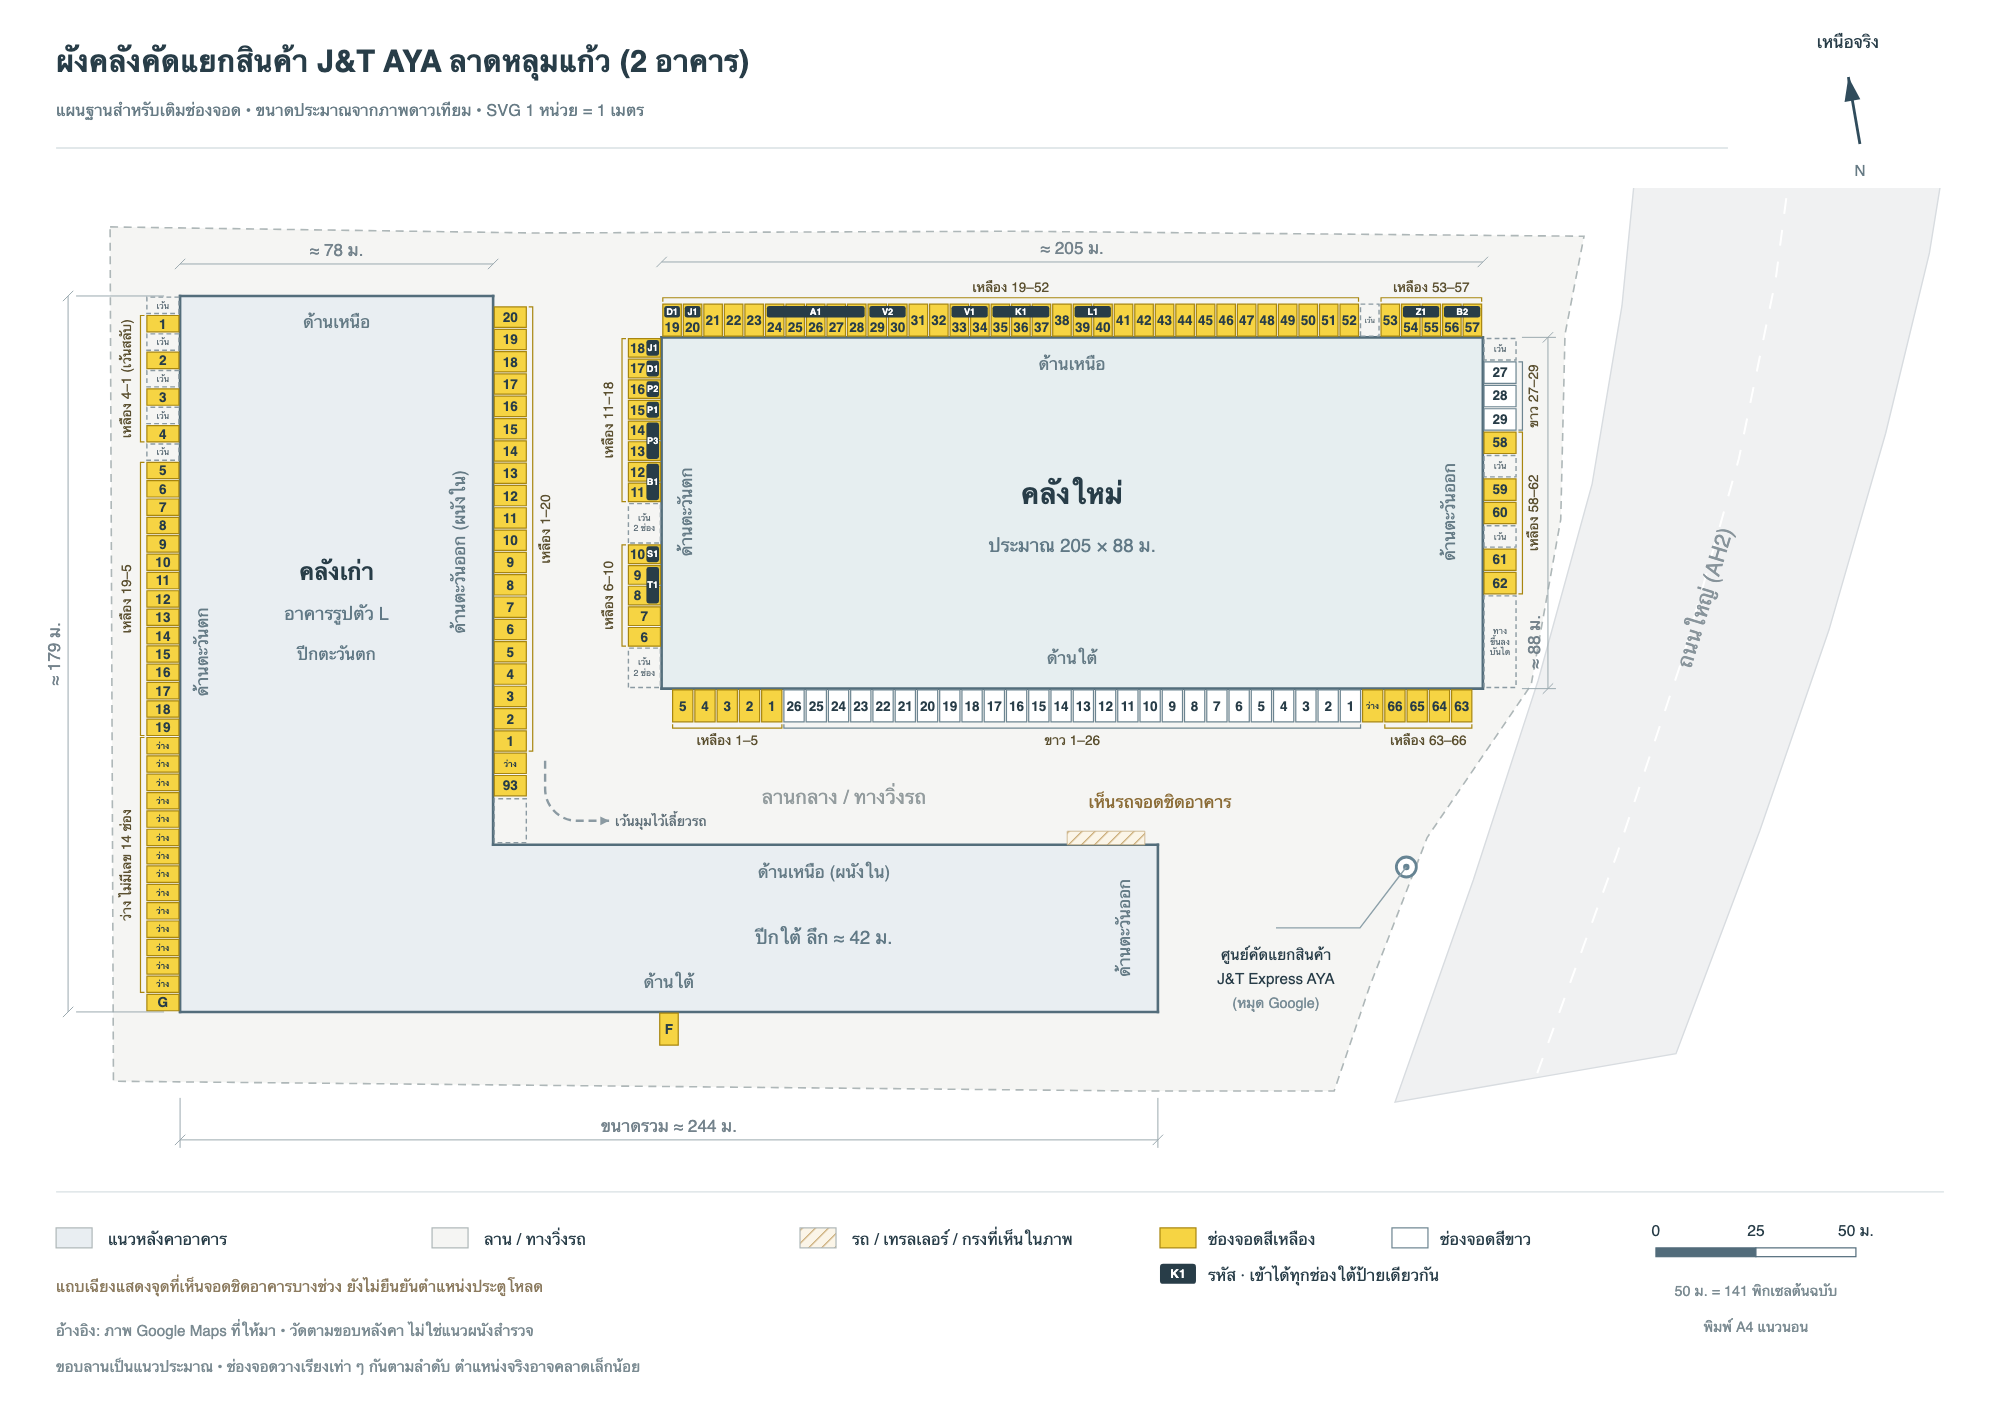
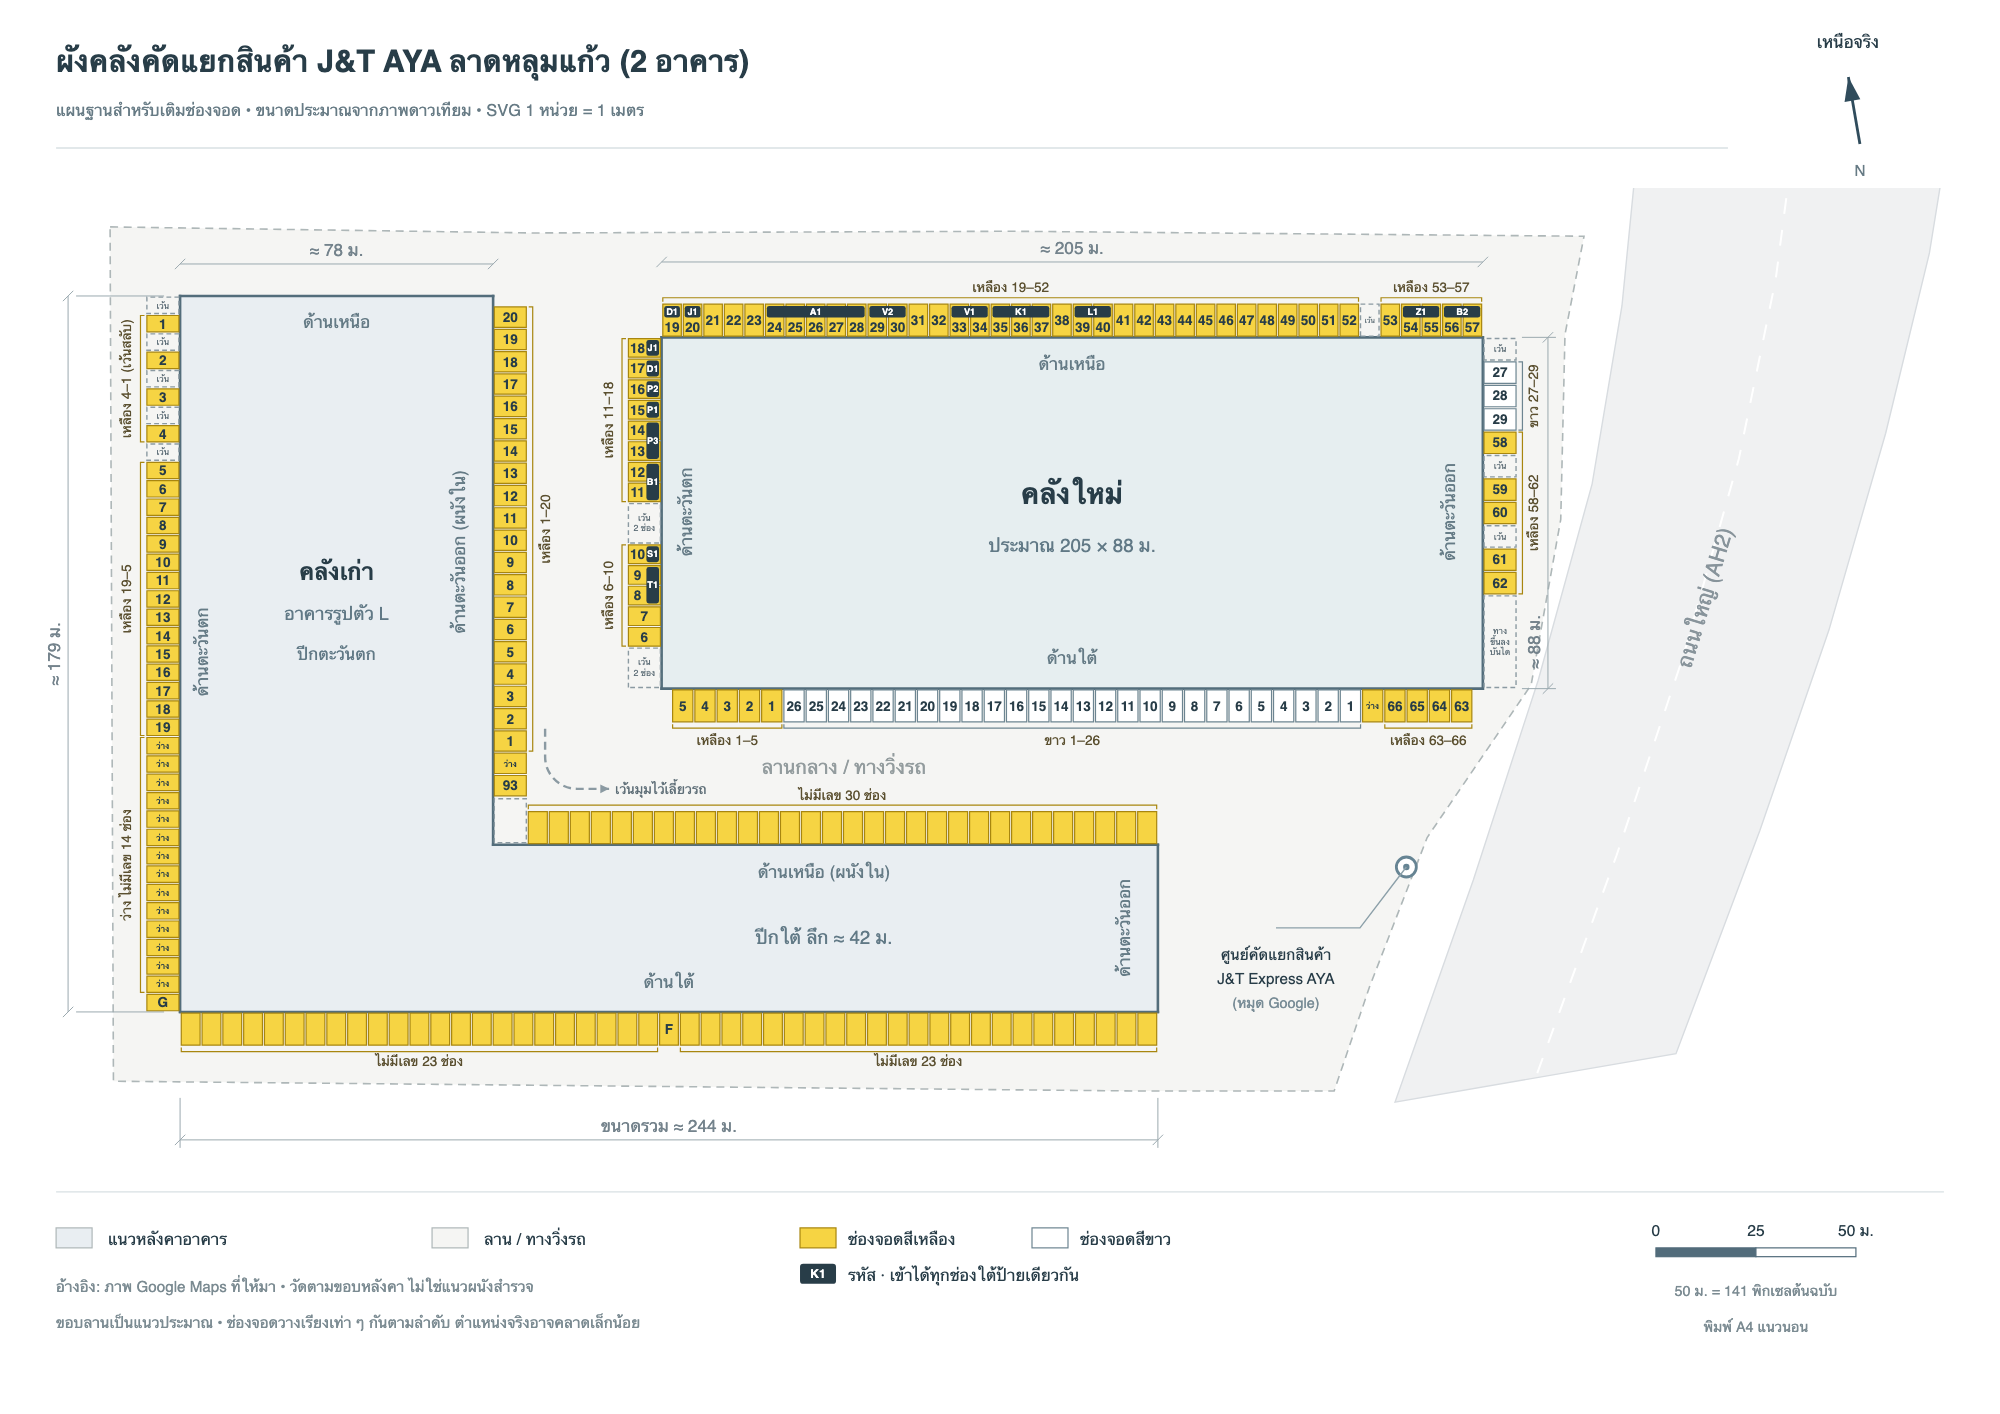
เติมช่องจอดคลังเก่า ด้านเหนือ (ผนังใน) 30 ช่อง และด้านใต้เต็มผนัง 47 ช่อง (ไม่มีเลข, F อยู่กลาง)
- ช่องใหม่ไม่ระบุเลข สีเหลือง วางเท่า ๆ กันเต็มผนัง; ด้านเหนือเริ่มต่อจากกล่องเว้นมุมเลี้ยวรถ
- ลบแถบ เห็นรถจอดชิดอาคาร อันสุดท้าย และคำอธิบายแถบเฉียงในสัญลักษณ์
- slots.js: เพิ่ม b1-inner-north, ช่องไม่มีเลขนับลำดับต่อกันทั้งด้าน (ป้ายไม่ซ้ำ) และบอกฝั่งที่เริ่มนับ

diff --git a/slots.js b/slots.js
@@ -5,8 +5,9 @@
   const API = "https://urbvwplaoznyhvcsvore.supabase.co/rest/v1";
   const KEY = "sb_publishable_Vudb-REBewSsT9BWbTf1zA_8pLvwgqQ"; // คีย์สาธารณะ อ่านได้ทุกคน เขียนได้แค่ผ่านฟังก์ชัน jt_set_parking_slot
   const POLL_MS = 10000;
-  const BUILDINGS = {"b2-south": "คลังใหม่ ด้านใต้", "b2-west": "คลังใหม่ ด้านตะวันตก", "b2-north": "คลังใหม่ ด้านเหนือ", "b2-east": "คลังใหม่ ด้านตะวันออก", "b1-inner-east": "คลังเก่า ด้านตะวันออก", "b1-west": "คลังเก่า ด้านตะวันตก", "b1-south": "คลังเก่า ด้านใต้"};
+  const BUILDINGS = {"b2-south": "คลังใหม่ ด้านใต้", "b2-west": "คลังใหม่ ด้านตะวันตก", "b2-north": "คลังใหม่ ด้านเหนือ", "b2-east": "คลังใหม่ ด้านตะวันออก", "b1-inner-east": "คลังเก่า ด้านตะวันออก", "b1-inner-north": "คลังเก่า ด้านเหนือ (ผนังใน)", "b1-west": "คลังเก่า ด้านตะวันตก", "b1-south": "คลังเก่า ด้านใต้"};
   const COLORS = {yellow: "เหลือง", white: "ขาว"};
+  const FROM = {north: "เหนือ", south: "ใต้", east: "ตะวันออก", west: "ตะวันตก"};
   // เปิดจากแอปกล้องลงเวลา (Android WebView ใส่ window.StampCam ไว้): แตะช่อง = เลือกช่องที่จอด ส่งกลับให้แอป แทนการสลับสถานะ
   // แอปเป็นคนตั้งช่องเป็น ไม่ว่าง เอง · ?current=<slot id> = ช่องที่เลือกไว้ตอนนี้
   const bridge = window.StampCam;
@@ -146,22 +147,25 @@
       const minNum = gs => gs[0].dataset.number ? Math.min(...gs.map(g => +g.dataset.number || 1e9)) : Infinity;
       const colorRank = gs => gs[0].dataset.color === "yellow" ? 0 : 1;
       groups.sort((a, b) => minNum(a) - minNum(b) || colorRank(a) - colorRank(b));
+      // ช่องไม่มีเลขนับลำดับต่อกันทั้งด้าน (เช่น ด้านใต้คลังเก่ามี 2 กลุ่มคั่นด้วย F) ป้ายจะได้ไม่ซ้ำ
+      let blankNo = 0;
       for (const gs of groups) {
         const color = gs[0].dataset.color, numbered = !!gs[0].dataset.number;
         gs.sort((a, b) => (+a.dataset.number || 0) - (+b.dataset.number || 0));
+        const first = blankNo + 1;
         const h3 = document.createElement("h3");
         h3.textContent = numbered
           ? `สี${COLORS[color] || color} ${gs[0].dataset.number}` + (gs.length > 1 ? `–${gs[gs.length - 1].dataset.number}` : "")
-          : `สี${COLORS[color] || color} ไม่มีเลข (${gs.length} ช่อง)`;
+          : `สี${COLORS[color] || color} ไม่มีเลข (${gs.length} ช่อง)` + (gs.length > 1 ? ` · ลำดับ ${first}–${first + gs.length - 1} นับจากฝั่ง${FROM[wall.dataset.from] || wall.dataset.from}` : "");
         const grid = document.createElement("div");
         grid.className = "grid";
-        gs.forEach((g, i) => {
-          const id = g.id, num = g.dataset.number, code = g.dataset.code;
-          const label = (num ? `${COLORS[color] || color} ${num}` : `${COLORS[color] || color} ไม่มีเลข ${i + 1}`) + (code ? ` (${code})` : "");
+        gs.forEach(g => {
+          const id = g.id, num = g.dataset.number, code = g.dataset.code, no = num ? 0 : ++blankNo;
+          const label = (num ? `${COLORS[color] || color} ${num}` : `${COLORS[color] || color} ไม่มีเลข ${no}`) + (code ? ` (${code})` : "");
           const btn = document.createElement("button");
           btn.type = "button";
           btn.className = `slot ${color}`;
-          btn.innerHTML = (num ? num : `–<small>${i + 1}</small>`) + (code ? `<small class="code">${code}</small>` : "");
+          btn.innerHTML = (num ? num : `–<small>${no}</small>`) + (code ? `<small class="code">${code}</small>` : "");
           const tap = () => bridge ? bridge.pick(id, slots[id].label) : toggle(id);
           btn.onclick = tap;
           if (id === current) btn.classList.add("picked");

diff --git a/map.html b/map.html
@@ -41,6 +41,7 @@ h1{margin:4px 0 2px;font-size:24px;line-height:1.3}
     <button type="button" class="btn primary zoomTo" data-x="0.54" data-y="0.22">ขยาย: คลังใหม่ ด้านเหนือ</button>
     <button type="button" class="btn primary zoomTo" data-x="0.75" data-y="0.36">ขยาย: คลังใหม่ ด้านตะวันออก</button>
     <button type="button" class="btn primary zoomTo" data-x="0.27" data-y="0.40">ขยาย: คลังเก่า ด้านตะวันออก</button>
+    <button type="button" class="btn primary zoomTo" data-x="0.42" data-y="0.58">ขยาย: คลังเก่า ด้านเหนือ (ผนังใน)</button>
     <button type="button" class="btn primary zoomTo" data-x="0.08" data-y="0.46">ขยาย: คลังเก่า ด้านตะวันตก</button>
     <button type="button" class="btn primary zoomTo" data-x="0.33" data-y="0.73">ขยาย: คลังเก่า ด้านใต้</button>
     <button type="button" class="btn" id="fitBtn" hidden>ย่อ</button>
@@ -48,7 +49,7 @@ h1{margin:4px 0 2px;font-size:24px;line-height:1.3}
     <a class="btn" href="report.html">รายงานรถทอย</a>
   </div>
 </div>
-<div class="viewer" id="viewer"><img src="plan.svg" alt="ผังคลังเก่า และคลังใหม่ พร้อมช่องจอดด้านใต้ ด้านตะวันตก ด้านเหนือ และด้านตะวันออกคลังใหม่ และด้านตะวันออก ด้านตะวันตก และด้านใต้คลังเก่า"></div>
+<div class="viewer" id="viewer"><img src="plan.svg" alt="ผังคลังเก่า และคลังใหม่ พร้อมช่องจอดด้านใต้ ด้านตะวันตก ด้านเหนือ และด้านตะวันออกคลังใหม่ และด้านตะวันออก ด้านเหนือ (ผนังใน) ด้านตะวันตก และด้านใต้คลังเก่า"></div>
 <div class="wrap"><p class="note">เลขช่องซ้ำได้ แยกด้วยสีพื้น (เหลือง / ขาว) · ช่องวางเรียงเท่า ๆ กัน ตำแหน่งจริงอาจคลาดเล็กน้อย</p></div>
 <script>
 const v = document.getElementById("viewer"), fit = document.getElementById("fitBtn");
